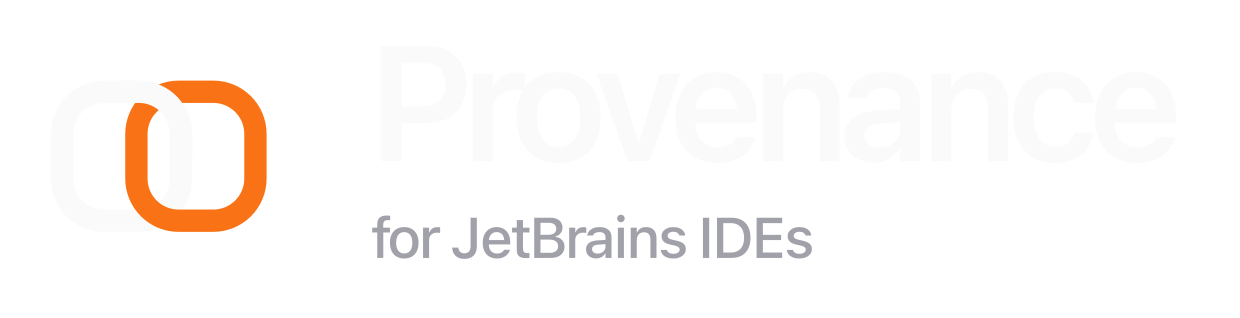
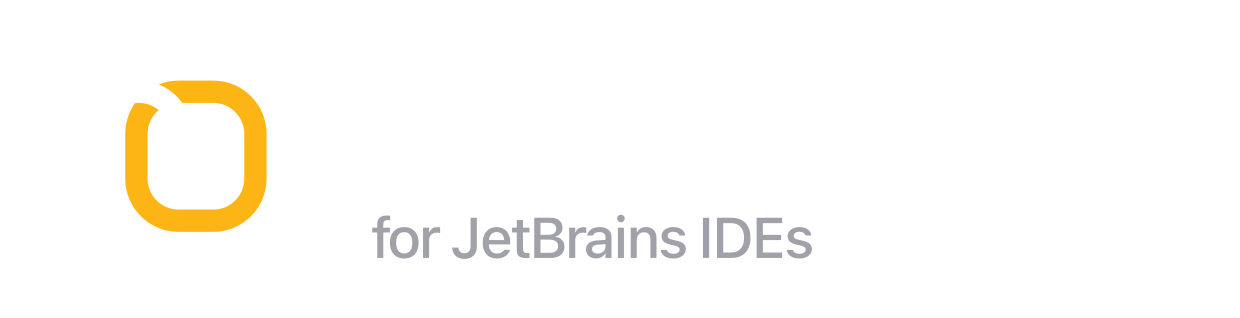
feat(brand): recolor the mark to UC Berkeley blue and gold
Follows ProvenanceTools/provenance#41 (issue #36): ink #18181b -> Berkeley
Blue #002676 (white on dark), accent orange -> California Gold #FDB515.
Updates the plugin icons, README lockup masters, and their PNG exports.

Changed region(s): [[0.0919, 0.2547, 0.2145, 0.7358]]

diff --git a/brand/README.md b/brand/README.md
@@ -13,11 +13,13 @@ these files from it rather than editing them in place.
 
 | Token      | Light surface | Dark surface |
 | ---------- | ------------- | ------------ |
-| Ink / line | `#18181b`     | `#fafafa`    |
-| Accent     | `#EA580C`     | `#F97316`    |
+| Ink / line | `#002676`     | `#FFFFFF`    |
+| Accent     | `#FDB515`     | `#FDB515`    |
 | Subtitle   | `#52525b`     | `#a1a1aa`    |
 
-Same tokens as Provenance; the accent brightens on dark surfaces for contrast.
+Same tokens as Provenance: UC Berkeley's Berkeley Blue and California Gold (the
+monorepo's issue #36 replaced the original `#18181b` ink and `#EA580C` orange accent).
+Gold stays solid on both surfaces; the neutral subtitle grays are unchanged.
 
 ## Source masters
 
